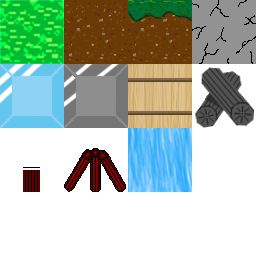
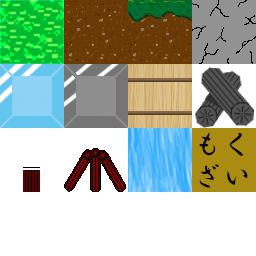
Woodクラス作成
wood画像の追加、使用可能

by 長谷川修一

Changed region(s): [[0.75, 0.5, 1.0, 0.75]]

diff --git a/TeamWorkGame/TeamWorkGame/TeamWorkGame/Def/MapManager.cs b/TeamWorkGame/TeamWorkGame/TeamWorkGame/Def/MapManager.cs
@@ -72,7 +72,7 @@ namespace TeamWorkGame.Def
 
             map = new Map(mapdata, blockSize, MapThings);
             Method.CreateGimmicks(mapdata, MapThings);
-            
+
         }
 
         //ステージ２の編集
@@ -149,44 +149,64 @@ namespace TeamWorkGame.Def
             List<Actor.GameObject> MapThings = new List<Actor.GameObject>();
             int[,] mapdata = new int[,]
             {
-              {1,1,1,1,1,1,1,1,1,1,1,1,1,1,1,1,1,1,1,1,1,1,1,1,1,1,1,1,1,1},
-                {1,-1,-1,1,-1,-1,-1,-1,-1,-1,-1,-1,-1,-1,-1,-1,-1,-1,-1,-1,-1,-1,-1,-1,-1,-1,-1,-1,-1,1},
-                {1,-1,-1,1,9,-1,-1,-1,-1,-1,-1,-1,-1,-1,-1,-1,-1,-1,-1,-1,-1,-1,-1,-1,-1,-1,-1,-1,-1,1},
-                {1,-1,2,1,5,5,5,5,5,-1,-1,6,6,6,6,6,6,6,6,6,6,6,6,6,6,6,-1,-1,8,1},
-                {1,-1,1,-1,-1,-1,-1,-1,-1,-1,-1,-1,-1,-1,-1,-1,-1,-1,-1,-1,-1,-1,-1,-1,-1,-1,-1,-1,-1,1},
-                {1,-1,1,-1,-1,-1,-1,-1,-1,-1,-1,-1,-1,-1,-1,-1,-1,-1,-1,-1,-1,-1,-1,-1,-1,-1,-1,-1,-1,1},
-                {1,-1,1,-1,-1,-1,-1,-1,-1,-1,5,-1,-1,-1,-1,-1,-1,-1,-1,-1,-1,-1,-1,-1,-1,-1,-1,-1,8,1},
-                {1,-1,1,-1,-1,-1,-1,-1,-1,-1,5,-1,-1,-1,-1,-1,-1,-1,-1,-1,-1,-1,-1,-1,-1,-1,-1,-1,-1,1},
-                {1,-1,1,-1,-1,-1,-1,-1,-1,-1,5,5,5,5,-1,-1,-1,-1,-1,-1,-1,-1,-1,-1,-1,-1,-1,-1,-1,1},
-                {1,-1,1,-1,-1,-1,-1,-1,-1,-1,-1,-1,-1,-1,-1,-1,-1,-1,-1,-1,-1,-1,-1,-1,-1,-1,-1,-1,8,1},
-                {1,-1,1,-1,-1,-1,-1,-1,-1,-1,-1,-1,-1,-1,-1,5,5,5,-1,-1,-1,-1,-1,-1,-1,-1,-1,-1,-1,1},
-                {1,-1,1,-1,-1,-1,-1,-1,-1,-1,-1,7,-1,-1,-1,7,-1,-1,-1,-1,-1,-1,-1,-1,-1,-1,-1,-1,-1,1},
-                {1,-1,1,-1,-1,-1,-1,-1,-1,-1,-1,-1,-1,-1,-1,-1,-1,-1,-1,2,2,2,-1,-1,-1,-1,-1,2,2,1},
-                {1,-1,1,-1,-1,-1,-1,-1,-1,-1,-1,-1,-1,-1,-1,-1,-1,-1,-1,-1,-1,-1,-1,-1,-1,-1,-1,-1,-1,1},
-                {1,-1,1,-1,-1,-1,8,-1,6,6,6,5,6,6,6,5,6,6,5,6,6,6,6,6,6,6,-1,-1,-1,1},
-                {1,-1,1,-1,-1,-1,-1,-1,-1,-1,-1,-1,-1,-1,-1,-1,-1,-1,-1,-1,-1,-1,-1,-1,-1,-1,-1,-1,-1,1},
-                {1,-1,1,-1,-1,-1,-1,-1,-1,-1,-1,-1,-1,-1,-1,-1,-1,-1,-1,-1,-1,-1,-1,-1,-1,-1,-1,-1,-1,1},
-                {1,-1,1,-1,-1,-1,8,-1,-1,-1,-1,-1,-1,-1,-1,-1,-1,-1,-1,-1,-1,-1,-1,-1,-1,-1,-1,-1,-1,1},
-                {1,-1,1,-1,-1,-1,-1,-1,-1,-1,-1,-1,-1,-1,-1,-1,-1,-1,-1,-1,-1,-1,-1,-1,-1,-1,-1,-1,-1,1},
-                {1,-1,1,-1,-1,-1,-1,-1,-1,-1,-1,-1,-1,-1,-1,-1,-1,-1,-1,-1,-1,-1,-1,-1,-1,-1,-1,-1,-1,1},
-                {1,-1,1,-1,-1,-1,8,-1,-1,-1,-1,-1,-1,-1,-1,-1,-1,-1,-1,-1,-1,-1,-1,-1,-1,-1,-1,-1,-1,1},
-                {1,-1,1,-1,-1,-1,-1,-1,-1,-1,4,4,4,4,-1,-1,5,-1,-1,-1,-1,-1,-1,-1,-1,-1,-1,-1,-1,1},
-                {1,-1,1,-1,-1,-1,-1,7,-1,-1,6,6,6,6,-1,-1,5,-1,-1,-1,-1,-1,-1,-1,-1,-1,-1,-1,-1,1},
-                {1,-1,1,-1,-1,2,2,2,-1,-1,6,6,6,6,-1,-1,5,-1,-1,-1,-1,-1,-1,-1,-1,-1,-1,-1,-1,1},
-                {1,-1,1,-1,-1,-1,-1,-1,-1,-1,5,5,5,5,-1,-1,5,5,5,5,-1,-1,-1,-1,-1,-1,-1,-1,-1,1},
-                {1,-1,1,-1,-1,-1,-1,-1,-1,-1,-1,-1,-1,-1,-1,-1,-1,-1,-1,-1,-1,-1,-1,-1,-1,-1,-1,-1,-1,1},
-                {1,-1,1,-1,-1,-1,-1,-1,-1,-1,-1,-1,-1,-1,-1,-1,-1,-1,-1,-1,-1,8,-1,-1,-1,-1,-1,-1,-1,1},
-                {1,-1,1,-1,-1,-1,-1,-1,-1,-1,-1,-1,-1,-1,-1,-1,-1,-1,-1,-1,-1,-1,-1,-1,-1,-1,-1,-1,-1,1},
-                {1,-1,1,-1,-1,-1,-1,-1,-1,-1,-1,-1,-1,-1,-1,-1,-1,-1,8,-1,-1,-1,-1,-1,-1,-1,-1,-1,-1,1},
-                {1,-1,1,-1,-1,-1,-1,-1,-1,-1,-1,-1,-1,-1,-1,-1,-1,-1,-1,-1,-1,-1,-1,-1,-1,-1,-1,-1,-1,1},
-                {1,-1,1,-1,-1,-1,-1,-1,-1,-1,-1,-1,7,-1,-1,-1,-1,-1,-1,-1,-1,-1,-1,-1,-1,-1,-1,-1,-1,1},
-                {1,-1,1,-1,-1,-1,-1,-1,-1,-1,-1,-1,5,5,5,5,-1,-1,-1,-1,-1,-1,-1,-1,-1,-1,-1,-1,-1,1},
-                {1,-1,1,-1,-1,-1,-1,-1,-1,-1,-1,-1,-1,-1,-1,-1,-1,-1,-1,-1,-1,-1,-1,-1,-1,-1,-1,-1,-1,1},
-                {1,-1,1,-1,-1,-1,-1,-1,5,5,5,-1,-1,-1,-1,-1,-1,-1,-1,-1,-1,-1,-1,-1,-1,-1,-1,-1,-1,1},
-                {1,-1,-1,-1,-1,-1,5,-1,-1,-1,-1,-1,-1,-1,-1,-1,-1,-1,-1,-1,-1,-1,-1,-1,-1,-1,-1,-1,-1,1},
-                {1,-1,-1,-1,5,5,5,-1,-1,-1,-1,-1,-1,-1,-1,-1,-1,-1,-1,-1,-1,-1,-1,-1,-1,-1,-1,-1,-1,1},
-                {1,-1,-1,-1,-1,-1,-1,-1,-1,-1,-1,-1,-1,-1,-1,-1,-1,-1,-1,-1,-1,-1,-1,-1,-1,-1,-1,-1,-1,1},
-                {1,2,2,2,2,2,2,2,2,2,2,2,2,2,2,2,2,2,2,2,2,2,2,2,2,2,2,2,2,1}
+                {-1,-1,-1,-1,-1,-1,-1,-1,-1,-1,-1,-1,-1,-1,-1,-1,-1,-1,-1,-1,-1,-1,-1,-1,-1,-1,-1,-1,-1,-1},
+                {-1,-1,-1,-1,-1,-1,-1,-1,-1,-1,-1,-1,-1,-1,-1,-1,-1,-1,-1,-1,-1,-1,-1,-1,-1,-1,-1,-1,-1,-1},
+                {-1,-1,-1,-1,-1,-1,-1,-1,-1,-1,-1,-1,-1,-1,-1,-1,-1,-1,-1,-1,-1,-1,-1,-1,-1,-1,-1,-1,-1,-1},
+                {-1,-1,-1,-1,-1,-1,-1,-1,-1,-1,-1,-1,-1,-1,-1,-1,-1,-1,-1,-1,-1,-1,-1,-1,-1,-1,-1,-1,-1,-1},
+                {-1,-1,-1,-1,-1,-1,-1,-1,-1,-1,-1,-1,-1,-1,-1,-1,-1,-1,-1,-1,-1,-1,-1,-1,-1,-1,-1,-1,-1,-1},
+                {-1,-1,-1,-1,-1,-1,-1,-1,-1,-1,-1,-1,-1,-1,-1,-1,-1,-1,-1,-1,-1,-1,-1,-1,-1,-1,-1,-1,-1,-1},
+                {-1,-1,-1,-1,-1,-1,-1,-1,-1,-1,-1,-1,-1,-1,-1,-1,-1,-1,-1,-1,-1,-1,-1,-1,-1,-1,-1,-1,-1,-1},
+                {-1,-1,-1,-1,-1,-1,-1,-1,-1,-1,-1,-1,-1,-1,-1,-1,-1,-1,-1,-1,-1,-1,-1,-1,-1,-1,-1,-1,-1,-1},
+                {-1,-1,-1,-1,-1,-1,-1,-1,-1,-1,-1,-1,-1,-1,-1,-1,-1,-1,-1,-1,-1,-1,-1,-1,-1,-1,-1,-1,-1,-1},
+                {-1,-1,-1,-1,-1,-1,-1,-1,-1,-1,-1,-1,-1,-1,-1,-1,-1,-1,-1,-1,-1,-1,-1,-1,-1,-1,-1,-1,-1,-1},
+                {-1,-1,-1,-1,-1,-1,-1,-1,-1,-1,-1,-1,-1,-1,-1,-1,-1,-1,-1,-1,-1,-1,-1,-1,-1,-1,-1,-1,-1,-1},
+                {-1,-1,-1,-1,-1,-1,-1,-1,-1,-1,-1,-1,-1,-1,-1,-1,-1,-1,-1,-1,-1,-1,-1,-1,-1,-1,-1,-1,-1,-1},
+                {-1,-1,-1,-1,-1,-1,-1,-1,-1,-1,-1,-1,-1,-1,-1,-1,-1,-1,-1,-1,-1,-1,-1,-1,-1,-1,-1,-1,-1,-1},
+                {-1,-1,-1,-1,-1,-1,-1,-1,-1,-1,-1,-1,-1,-1,-1,-1,-1,-1,-1,-1,-1,-1,-1,-1,-1,-1,-1,-1,-1,-1},
+                {-1,-1,-1,-1,-1,-1,-1,-1,-1,-1,-1,-1,-1,-1,-1,-1,-1,-1,-1,-1,-1,-1,-1,-1,-1,-1,-1,-1,-1,-1},
+                {-1,-1,-1,-1,-1,-1,-1,-1,-1,-1,-1,-1,-1,-1,-1,-1,-1,-1,-1,-1,-1,-1,-1,-1,-1,-1,-1,-1,-1,-1},
+                {-1,-1,-1,-1,-1,-1,-1,-1,-1,-1,-1,-1,-1,-1,-1,-1,-1,-1,-1,-1,-1,-1,-1,-1,-1,-1,-1,-1,-1,-1},
+                {11,11,11,11,11,11,11,11,11,11,11,11,11,11,11,11,11,11,11,11,11,11,11,11,11,11,11,11,11,11},
+                {2,2,2,2,2,2,2,2,2,2,2,2,2,2,2,2,2,2,2,2,2,2,2,2,2,2,2,2,2,2}
+
+              //{1,1,1,1,1,1,1,1,1,1,1,1,1,1,1,1,1,1,1,1,1,1,1,1,1,1,1,1,1,1},
+              //  {1,-1,-1,1,-1,-1,-1,-1,-1,-1,-1,-1,-1,-1,-1,-1,-1,-1,-1,-1,-1,-1,-1,-1,-1,-1,-1,-1,-1,1},
+              //  {1,-1,-1,1,9,-1,-1,-1,-1,-1,-1,-1,-1,-1,-1,-1,-1,-1,-1,-1,-1,-1,-1,-1,-1,-1,-1,-1,-1,1},
+              //  {1,-1,2,1,5,5,5,5,5,-1,-1,6,6,6,6,6,6,6,6,6,6,6,6,6,6,6,-1,-1,8,1},
+              //  {1,-1,1,-1,-1,-1,-1,-1,-1,-1,-1,-1,-1,-1,-1,-1,-1,-1,-1,-1,-1,-1,-1,-1,-1,-1,-1,-1,-1,1},
+              //  {1,-1,1,-1,-1,-1,-1,-1,-1,-1,-1,-1,-1,-1,-1,-1,-1,-1,-1,-1,-1,-1,-1,-1,-1,-1,-1,-1,-1,1},
+              //  {1,-1,1,-1,-1,-1,-1,-1,-1,-1,5,-1,-1,-1,-1,-1,-1,-1,-1,-1,-1,-1,-1,-1,-1,-1,-1,-1,8,1},
+              //  {1,-1,1,-1,-1,-1,-1,-1,-1,-1,5,-1,-1,-1,-1,-1,-1,-1,-1,-1,-1,-1,-1,-1,-1,-1,-1,-1,-1,1},
+              //  {1,-1,1,-1,-1,-1,-1,-1,-1,-1,5,5,5,5,-1,-1,-1,-1,-1,-1,-1,-1,-1,-1,-1,-1,-1,-1,-1,1},
+              //  {1,-1,1,-1,-1,-1,-1,-1,-1,-1,-1,-1,-1,-1,-1,-1,-1,-1,-1,-1,-1,-1,-1,-1,-1,-1,-1,-1,8,1},
+              //  {1,-1,1,-1,-1,-1,-1,-1,-1,-1,-1,-1,-1,-1,-1,5,5,5,-1,-1,-1,-1,-1,-1,-1,-1,-1,-1,-1,1},
+              //  {1,-1,1,-1,-1,-1,-1,-1,-1,-1,-1,7,-1,-1,-1,7,-1,-1,-1,-1,-1,-1,-1,-1,-1,-1,-1,-1,-1,1},
+              //  {1,-1,1,-1,-1,-1,-1,-1,-1,-1,-1,-1,-1,-1,-1,-1,-1,-1,-1,2,2,2,-1,-1,-1,-1,-1,2,2,1},
+              //  {1,-1,1,-1,-1,-1,-1,-1,-1,-1,-1,-1,-1,-1,-1,-1,-1,-1,-1,-1,-1,-1,-1,-1,-1,-1,-1,-1,-1,1},
+              //  {1,-1,1,-1,-1,-1,8,-1,6,6,6,5,6,6,6,5,6,6,5,6,6,6,6,6,6,6,-1,-1,-1,1},
+              //  {1,-1,1,-1,-1,-1,-1,-1,-1,-1,-1,-1,-1,-1,-1,-1,-1,-1,-1,-1,-1,-1,-1,-1,-1,-1,-1,-1,-1,1},
+              //  {1,-1,1,-1,-1,-1,-1,-1,-1,-1,-1,-1,-1,-1,-1,-1,-1,-1,-1,-1,-1,-1,-1,-1,-1,-1,-1,-1,-1,1},
+              //  {1,-1,1,-1,-1,-1,8,-1,-1,-1,-1,-1,-1,-1,-1,-1,-1,-1,-1,-1,-1,-1,-1,-1,-1,-1,-1,-1,-1,1},
+              //  {1,-1,1,-1,-1,-1,-1,-1,-1,-1,-1,-1,-1,-1,-1,-1,-1,-1,-1,-1,-1,-1,-1,-1,-1,-1,-1,-1,-1,1},
+              //  {1,-1,1,-1,-1,-1,-1,-1,-1,-1,-1,-1,-1,-1,-1,-1,-1,-1,-1,-1,-1,-1,-1,-1,-1,-1,-1,-1,-1,1},
+              //  {1,-1,1,-1,-1,-1,8,-1,-1,-1,-1,-1,-1,-1,-1,-1,-1,-1,-1,-1,-1,-1,-1,-1,-1,-1,-1,-1,-1,1},
+              //  {1,-1,1,-1,-1,-1,-1,-1,-1,-1,4,4,4,4,-1,-1,5,-1,-1,-1,-1,-1,-1,-1,-1,-1,-1,-1,-1,1},
+              //  {1,-1,1,-1,-1,-1,-1,7,-1,-1,6,6,6,6,-1,-1,5,-1,-1,-1,-1,-1,-1,-1,-1,-1,-1,-1,-1,1},
+              //  {1,-1,1,-1,-1,2,2,2,-1,-1,6,6,6,6,-1,-1,5,-1,-1,-1,-1,-1,-1,-1,-1,-1,-1,-1,-1,1},
+              //  {1,-1,1,-1,-1,-1,-1,-1,-1,-1,5,5,5,5,-1,-1,5,5,5,5,-1,-1,-1,-1,-1,-1,-1,-1,-1,1},
+              //  {1,-1,1,-1,-1,-1,-1,-1,-1,-1,-1,-1,-1,-1,-1,-1,-1,-1,-1,-1,-1,-1,-1,-1,-1,-1,-1,-1,-1,1},
+              //  {1,-1,1,-1,-1,-1,-1,-1,-1,-1,-1,-1,-1,-1,-1,-1,-1,-1,-1,-1,-1,8,-1,-1,-1,-1,-1,-1,-1,1},
+              //  {1,-1,1,-1,-1,-1,-1,-1,-1,-1,-1,-1,-1,-1,-1,-1,-1,-1,-1,-1,-1,-1,-1,-1,-1,-1,-1,-1,-1,1},
+              //  {1,-1,1,-1,-1,-1,-1,-1,-1,-1,-1,-1,-1,-1,-1,-1,-1,-1,8,-1,-1,-1,-1,-1,-1,-1,-1,-1,-1,1},
+              //  {1,-1,1,-1,-1,-1,-1,-1,-1,-1,-1,-1,-1,-1,-1,-1,-1,-1,-1,-1,-1,-1,-1,-1,-1,-1,-1,-1,-1,1},
+              //  {1,-1,1,-1,-1,-1,-1,-1,-1,-1,-1,-1,7,-1,-1,-1,-1,-1,-1,-1,-1,-1,-1,-1,-1,-1,-1,-1,-1,1},
+              //  {1,-1,1,-1,-1,-1,-1,-1,-1,-1,-1,-1,5,5,5,5,-1,-1,-1,-1,-1,-1,-1,-1,-1,-1,-1,-1,-1,1},
+              //  {1,-1,1,-1,-1,-1,-1,-1,-1,-1,-1,-1,-1,-1,-1,-1,-1,-1,-1,-1,-1,-1,-1,-1,-1,-1,-1,-1,-1,1},
+              //  {1,-1,1,-1,-1,-1,-1,-1,5,5,5,-1,-1,-1,-1,-1,-1,-1,-1,-1,-1,-1,-1,-1,-1,-1,-1,-1,-1,1},
+              //  {1,-1,-1,-1,-1,-1,5,-1,-1,-1,-1,-1,-1,-1,-1,-1,-1,-1,-1,-1,-1,-1,-1,-1,-1,-1,-1,-1,-1,1},
+              //  {1,11,-1,-1,5,5,5,-1,-1,-1,-1,-1,-1,-1,-1,-1,-1,-1,-1,-1,-1,-1,-1,-1,-1,-1,-1,-1,-1,1},
+              //  {1,11,-1,-1,-1,-1,-1,-1,-1,-1,-1,-1,-1,-1,-1,-1,-1,-1,-1,-1,-1,-1,-1,-1,-1,-1,-1,-1,-1,1},
+              //  {1,2,2,2,2,2,2,2,2,2,2,2,2,2,2,2,2,2,2,2,2,2,2,2,2,2,2,2,2,1}
 
             };
 
@@ -221,7 +241,7 @@ namespace TeamWorkGame.Def
                 { 1,-1,-1,-1,-1,-1,-1,-1,-1,2,-1,-1,-1,-1,-1,-1,-1,-1,-1,-1,-1,-1,-1,-1,-1,-1,-1,-1,-1,1 },
                 { 1,-1,-1,-1,-1,-1,-1,-1,2,1,2,-1,-1,-1,-1,-1,-1,-1,-1,-1,-1,-1,-1,-1,-1,-1,-1,-1,-1,1 },
                 { 1,-1,-1,-1,-1,-1,-1,2,1,1,1,2,-1,-1,-1,-1,-1,-1,-1,-1,-1,-1,-1,-1,-1,-1,-1,-1,-1,1 },
-                { 2,2,2,2,2,2,2,1,1,1,1,1,2,2,2,2,2,2,2,2,2,2,2,2,2,2,2,2,2,2 }, 
+                { 2,2,2,2,2,2,2,1,1,1,1,1,2,2,2,2,2,2,2,2,2,2,2,2,2,2,2,2,2,2 },
                 { 1,1,1,1,1,1,1,1,1,1,1,1,1,1,1,1,1,1,1,1,1,1,1,1,1,1,1,1,1,1},
             };
 
@@ -280,11 +300,11 @@ namespace TeamWorkGame.Def
 
             //if (nowMapIndex != i)
             //{
-                nowMapIndex = i;
-                CreateStage[i]();
+            nowMapIndex = i;
+            CreateStage[i]();
             //}
         }
- 
+
 
         public static int[,] GetNowMapArr()
         {

diff --git a/TeamWorkGame/TeamWorkGame/TeamWorkGame/Actor/Wood.cs b/TeamWorkGame/TeamWorkGame/TeamWorkGame/Actor/Wood.cs
@@ -1,0 +1,77 @@
+//木材クラス
+//最終修正時間:2016年10月27日
+//by 長谷川修一
+
+using System;
+using System.Collections.Generic;
+using System.Linq;
+using System.Text;
+using Microsoft.Xna.Framework;
+using TeamWorkGame.Device;
+using TeamWorkGame.Def;
+using TeamWorkGame.Utility;
+
+namespace TeamWorkGame.Actor
+{
+    public class Wood : GameObject
+    {
+        private Timer timer;
+        private bool isToDeath;
+        private float scale;
+
+        public Wood(Vector2 pos)
+            : base("wood", new Size(64 * 1, 64 * 1), pos, Vector2.Zero, false, "Wood")
+        {
+        }
+
+        public override void Initialize()
+        {
+            base.Initialize();
+            timer = new Timer(2.0f);
+            isToDeath = false;
+            scale = 1.0f;
+        }
+
+        public void ToDeath()
+        {
+            if(!isToDeath)
+            {
+                isToDeath = true;
+            }
+        }
+
+        public override void Update(GameTime gameTime)
+        {
+            if (isToDeath)
+            {
+                timer.Update();
+                if(timer.IsTime())
+                {
+                    IsDead = true;
+                }
+            }
+        }
+
+        public override void Draw(GameTime gameTime, Renderer renderer, Vector2 offset)
+        {
+            renderer.DrawTexture(name, position + offset, scale, alpha);
+        }
+
+        public override void EventHandle(GameObject other)
+        {
+            if(other is Fire)
+            {
+                other.IsDead = true;
+            }
+            name = "fire";
+            isTrigger = true;
+            scale = 1.5f;
+            ToDeath();
+        }
+
+        public float GetScale()
+        {
+            return scale;
+        }
+    }
+}

diff --git a/TeamWorkGame/TeamWorkGame/TeamWorkGame/Utility/Method.cs b/TeamWorkGame/TeamWorkGame/TeamWorkGame/Utility/Method.cs
@@ -2,7 +2,7 @@
 // 重要のメソッド達
 // 作成時間：2016/10/1
 // 作成者：氷見悠人　
-// 最終修正時間：2016/10/19
+// 最終修正時間：2016/10/27
 // 修正者:長谷川修一
 /////////////////////////////////////////////////////////
 using System;
@@ -216,7 +216,7 @@ namespace TeamWorkGame.Utility
             return flag;
         }
 
-        //by 長谷川修一 10/19
+        //by木材追加 長谷川修一 10/27
         /// <summary>
         /// ギミック設置
         /// </summary>
@@ -270,6 +270,12 @@ namespace TeamWorkGame.Utility
                             {
                                 Water water = new Water(new Vector2(j * 64, i * 64), Vector2.Zero);
                                 MapThings.Add(water);
+                                break;
+                            }
+                        case (int)GimmickType.WOOD:
+                            {
+                                Wood wood = new Wood(new Vector2(j * 64, i * 64));
+                                MapThings.Add(wood);
                                 break;
                             }
                     }

diff --git a/TeamWorkGame/TeamWorkGame/TeamWorkGame/Def/GimmickType.cs b/TeamWorkGame/TeamWorkGame/TeamWorkGame/Def/GimmickType.cs
@@ -1,7 +1,7 @@
 /////////////////////////////////////////////////////////////////////////////////////
 // ギミックの種類列挙型
 // 作成者：氷見悠人
-// 最終更新日：10月19日
+// 最終更新日：10月27日
 // by 長谷川修一
 ///////////////////////////////////////////////////////////////////////////////
 using System;
@@ -24,5 +24,6 @@ namespace TeamWorkGame.Def
         LIGHT,          //松明
         GOAL,           //ゴール
         WATER,          //水
+        WOOD,           //木材
     }
 }
